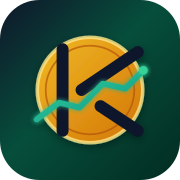
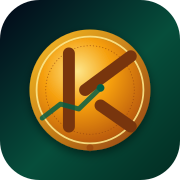
feat: icone premium tipo moeda (Chi-rima / Xρήμα) e nome grego na tela de login

Changed region(s): [[0.1389, 0.1389, 0.8611, 0.8611], [0.6111, 0.2778, 0.6389, 0.3056]]

diff --git a/src/components/auth/LoginView.tsx b/src/components/auth/LoginView.tsx
@@ -291,6 +291,9 @@ export const LoginView: React.FC<Props> = ({ users, profiles, onLoginSuccess }) 
           <h1 className="text-2xl sm:text-3xl font-black tracking-tight text-white">
             Khrima
           </h1>
+          <p className="text-[13px] font-semibold text-emerald-400 tracking-[0.35em] uppercase">
+            Χρήμα
+          </p>
           <p className="text-xs text-slate-400 font-medium">
             Acesse sua plataforma de gestão financeira com segurança
           </p>
